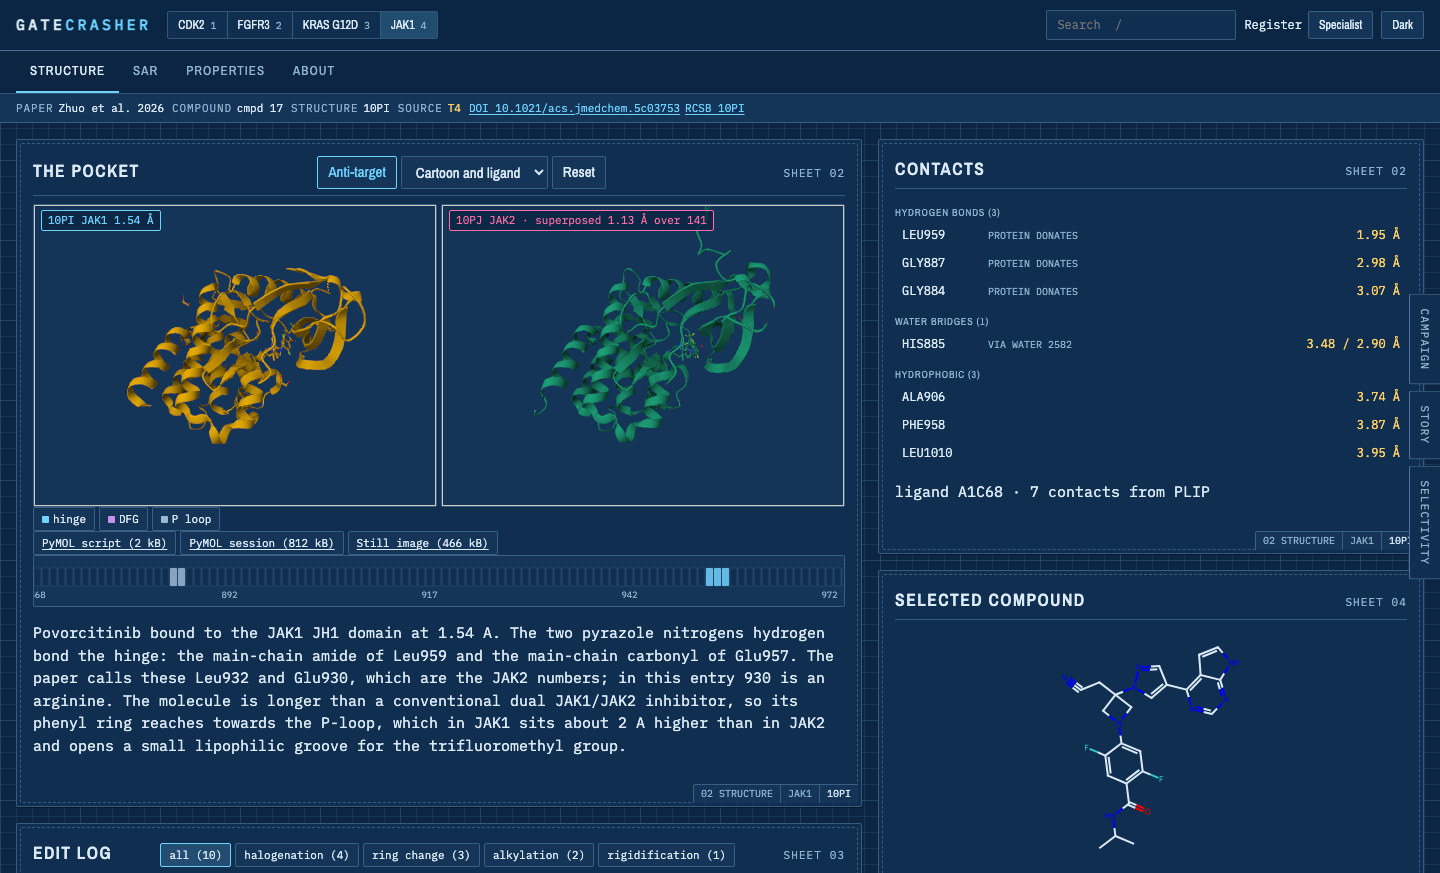
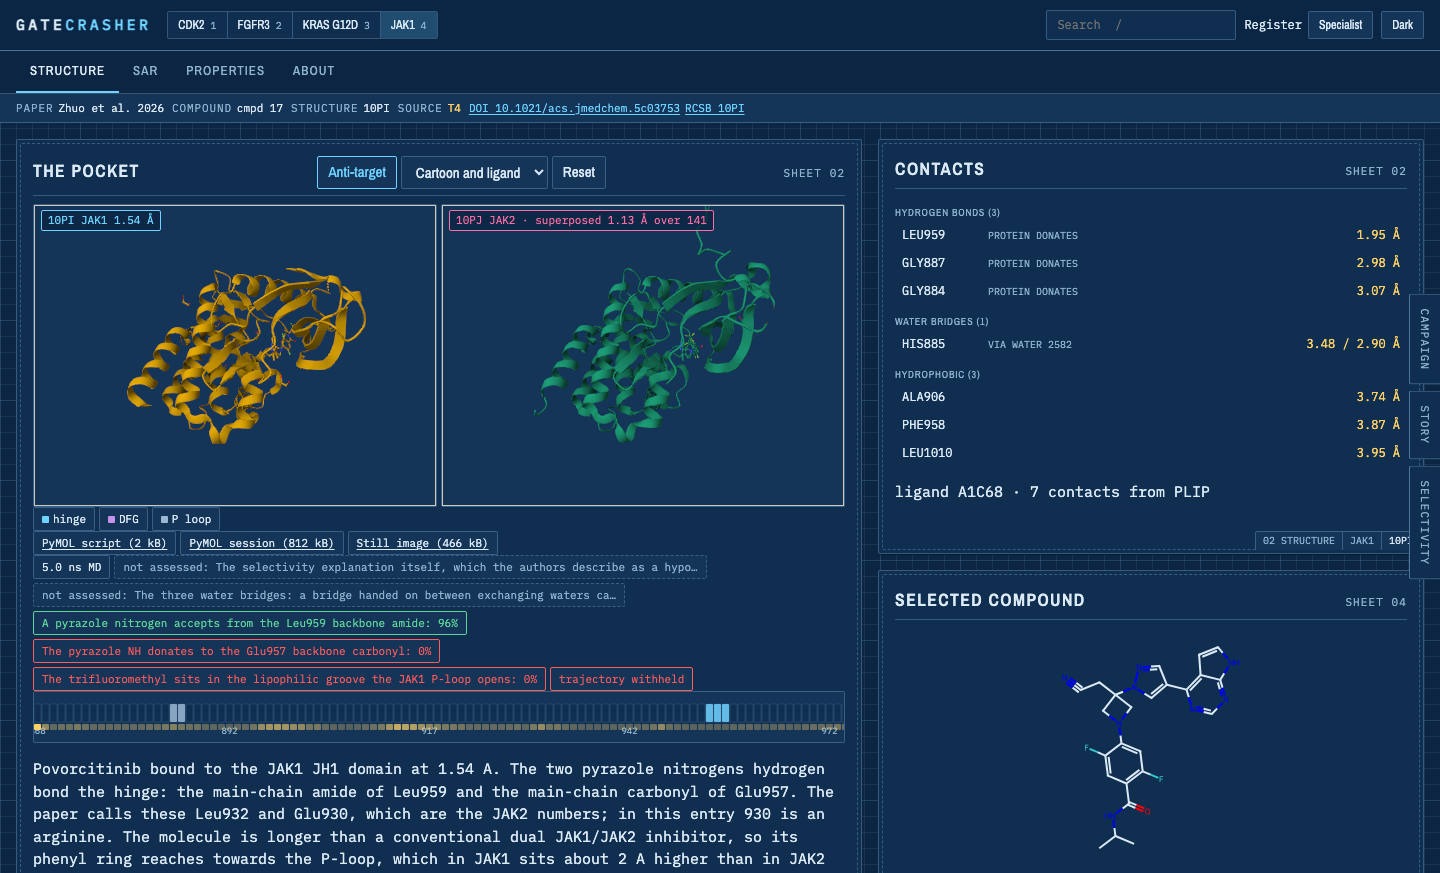
Tick the short molecular dynamics roadmap item
Four 5 ns runs finished at 05:08, one per primary structure, each carrying the
paper's own claims as statements written before the run began. CDK2, KRAS and
FGFR support theirs and publish their trajectories. JAK1 does not, and its
trajectory is withheld, which is the rule working rather than failing.

The item's criteria are met however the JAK1 claims are eventually scoped: the
runs ran, the RMSF tracks are on the rulers, the trajectories play where they
earned the right to, and none ships that does not support what its paper says.

The anti-target item stays open. Comparing the flexibility of the twin pair is a
different run that has not been done.

Screenshots refreshed from the verification runs.

Claude-Session: https://claude.ai/code/session_01HkDbmCTHqoA5exPm7uRHnP

Changed region(s): [[0.0, 0.6495, 0.5938, 1.0]]

diff --git a/README.html b/README.html
@@ -194,7 +194,7 @@ gc all      &lt;slug&gt;                             # the pipeline, in order
 <li><span class="emd-check">&#9989;</span> <strong>Where the page phones.</strong> The app contacts its own origin and the RCSB, for coordinates it never redistributes, and nothing else. The three faces are served from here rather than a font CDN, so the rule holds strictly rather than by interpretation, and a test pins the page to exactly that list: a new third party has to be added deliberately rather than arriving unnoticed</li>
 <li><span class="emd-check">&#9989;</span> <strong>Reachable without a mouse, legible in both themes.</strong> Every control that answers Enter or Space is now tested on the key as well as the click, and the contrast of the prose, the grid ground and the provenance rail is measured in the dark theme as well as the light one. Dark is what most readers see and was the half going unmeasured</li>
 <li><span class="emd-check">&#9989;</span> <strong>What the run could not test, published with what it did.</strong> Each simulation names its own limits before it starts, and those now reach the page beside the claims rather than stopping at the report: the water-mediated bridges a solute-only trajectory cannot follow, an activation loop modelled without its phosphotyrosines, a selectivity argument that would need the anti-target simulated alongside. Drawn as neither a pass nor a failure, because a limit is the absence of a verdict rather than one</li>
-<li><span class="emd-check">&#11036;</span> <strong>Short molecular dynamics.</strong> A 5 ns run per primary structure with an RMSF track on the pocket ruler and a playable trajectory, and no trajectory ships that does not support what the paper claims. The verdict logic is proved in both directions; the production runs are in progress</li>
+<li><span class="emd-check">&#9989;</span> <strong>Short molecular dynamics.</strong> Four 5 ns runs, one per primary structure, each carrying the paper's own claims as testable statements written before it started. CDK2, KRAS and FGFR support theirs and publish their trajectories; JAK1 does not and its trajectory is withheld, which is the rule doing its job rather than failing. The measurement that most repays reading is FGFR's designed hydrogen bond to Asn571, present in 65% of frames at a 3.17 Å median: real, and intermittent. Every run also publishes what it could not test</li>
 <li><span class="emd-check">&#11036;</span> <strong>Per-residue dynamics on the anti-target.</strong> The twin view compares two crystal poses; comparing their flexibility is the obvious next question and is not answered yet</li>
 </ul>
 <h2>📚 Citations</h2>

diff --git a/README.preview.html b/README.preview.html
@@ -250,7 +250,7 @@ gc all      &lt;slug&gt;                             # the pipeline, in order
 <li><span class="emd-check">&#9989;</span> <strong>Where the page phones.</strong> The app contacts its own origin and the RCSB, for coordinates it never redistributes, and nothing else. The three faces are served from here rather than a font CDN, so the rule holds strictly rather than by interpretation, and a test pins the page to exactly that list: a new third party has to be added deliberately rather than arriving unnoticed</li>
 <li><span class="emd-check">&#9989;</span> <strong>Reachable without a mouse, legible in both themes.</strong> Every control that answers Enter or Space is now tested on the key as well as the click, and the contrast of the prose, the grid ground and the provenance rail is measured in the dark theme as well as the light one. Dark is what most readers see and was the half going unmeasured</li>
 <li><span class="emd-check">&#9989;</span> <strong>What the run could not test, published with what it did.</strong> Each simulation names its own limits before it starts, and those now reach the page beside the claims rather than stopping at the report: the water-mediated bridges a solute-only trajectory cannot follow, an activation loop modelled without its phosphotyrosines, a selectivity argument that would need the anti-target simulated alongside. Drawn as neither a pass nor a failure, because a limit is the absence of a verdict rather than one</li>
-<li><span class="emd-check">&#11036;</span> <strong>Short molecular dynamics.</strong> A 5 ns run per primary structure with an RMSF track on the pocket ruler and a playable trajectory, and no trajectory ships that does not support what the paper claims. The verdict logic is proved in both directions; the production runs are in progress</li>
+<li><span class="emd-check">&#9989;</span> <strong>Short molecular dynamics.</strong> Four 5 ns runs, one per primary structure, each carrying the paper's own claims as testable statements written before it started. CDK2, KRAS and FGFR support theirs and publish their trajectories; JAK1 does not and its trajectory is withheld, which is the rule doing its job rather than failing. The measurement that most repays reading is FGFR's designed hydrogen bond to Asn571, present in 65% of frames at a 3.17 Å median: real, and intermittent. Every run also publishes what it could not test</li>
 <li><span class="emd-check">&#11036;</span> <strong>Per-residue dynamics on the anti-target.</strong> The twin view compares two crystal poses; comparing their flexibility is the obvious next question and is not answered yet</li>
 </ul>
 <h2>📚 Citations</h2>

diff --git a/README.md b/README.md
@@ -130,7 +130,7 @@ Roadmap, roughly in dependency order.
 - [x] **Where the page phones.** The app contacts its own origin and the RCSB, for coordinates it never redistributes, and nothing else. The three faces are served from here rather than a font CDN, so the rule holds strictly rather than by interpretation, and a test pins the page to exactly that list: a new third party has to be added deliberately rather than arriving unnoticed
 - [x] **Reachable without a mouse, legible in both themes.** Every control that answers Enter or Space is now tested on the key as well as the click, and the contrast of the prose, the grid ground and the provenance rail is measured in the dark theme as well as the light one. Dark is what most readers see and was the half going unmeasured
 - [x] **What the run could not test, published with what it did.** Each simulation names its own limits before it starts, and those now reach the page beside the claims rather than stopping at the report: the water-mediated bridges a solute-only trajectory cannot follow, an activation loop modelled without its phosphotyrosines, a selectivity argument that would need the anti-target simulated alongside. Drawn as neither a pass nor a failure, because a limit is the absence of a verdict rather than one
-- [ ] **Short molecular dynamics.** A 5 ns run per primary structure with an RMSF track on the pocket ruler and a playable trajectory, and no trajectory ships that does not support what the paper claims. The verdict logic is proved in both directions; the production runs are in progress
+- [x] **Short molecular dynamics.** Four 5 ns runs, one per primary structure, each carrying the paper's own claims as testable statements written before it started. CDK2, KRAS and FGFR support theirs and publish their trajectories; JAK1 does not and its trajectory is withheld, which is the rule doing its job rather than failing. The measurement that most repays reading is FGFR's designed hydrogen bond to Asn571, present in 65% of frames at a 3.17 Å median: real, and intermittent. Every run also publishes what it could not test
 - [ ] **Per-residue dynamics on the anti-target.** The twin view compares two crystal poses; comparing their flexibility is the obvious next question and is not answered yet
 
 ## 📚 Citations

diff --git a/README.polished.md b/README.polished.md
@@ -130,7 +130,7 @@ Roadmap, roughly in dependency order.
 - [x] **Where the page phones.** The app contacts its own origin and the RCSB, for coordinates it never redistributes, and nothing else. The three faces are served from here rather than a font CDN, so the rule holds strictly rather than by interpretation, and a test pins the page to exactly that list: a new third party has to be added deliberately rather than arriving unnoticed
 - [x] **Reachable without a mouse, legible in both themes.** Every control that answers Enter or Space is now tested on the key as well as the click, and the contrast of the prose, the grid ground and the provenance rail is measured in the dark theme as well as the light one. Dark is what most readers see and was the half going unmeasured
 - [x] **What the run could not test, published with what it did.** Each simulation names its own limits before it starts, and those now reach the page beside the claims rather than stopping at the report: the water-mediated bridges a solute-only trajectory cannot follow, an activation loop modelled without its phosphotyrosines, a selectivity argument that would need the anti-target simulated alongside. Drawn as neither a pass nor a failure, because a limit is the absence of a verdict rather than one
-- [ ] **Short molecular dynamics.** A 5 ns run per primary structure with an RMSF track on the pocket ruler and a playable trajectory, and no trajectory ships that does not support what the paper claims. The verdict logic is proved in both directions; the production runs are in progress
+- [x] **Short molecular dynamics.** Four 5 ns runs, one per primary structure, each carrying the paper's own claims as testable statements written before it started. CDK2, KRAS and FGFR support theirs and publish their trajectories; JAK1 does not and its trajectory is withheld, which is the rule doing its job rather than failing. The measurement that most repays reading is FGFR's designed hydrogen bond to Asn571, present in 65% of frames at a 3.17 Å median: real, and intermittent. Every run also publishes what it could not test
 - [ ] **Per-residue dynamics on the anti-target.** The twin view compares two crystal poses; comparing their flexibility is the obvious next question and is not answered yet
 
 ## 📚 Citations
